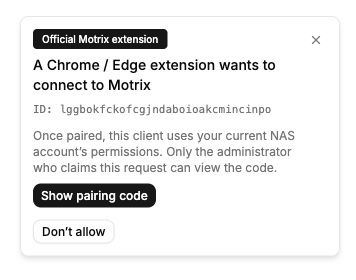
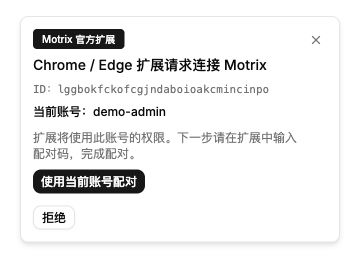
fix(fnos): clarify account-bound extension pairing

Changed region(s): [[0.0927, 0.0906, 0.8343, 0.7547], [0.1236, 0.7849, 0.309, 0.8453], [0.8652, 0.1208, 0.8961, 0.1811]]

diff --git a/src/renderer/routes/settings/cards/integration/use-pair-request-prompts.tsx b/src/renderer/routes/settings/cards/integration/use-pair-request-prompts.tsx
@@ -3,7 +3,10 @@ import {
   pairRequestCopy,
   toast,
 } from '@renderer/components/ui/toast'
-import { useOperatorSession } from '@renderer/lib/operator-auth'
+import {
+  refreshOperatorSession,
+  useOperatorSession,
+} from '@renderer/lib/operator-auth'
 import { transport } from '@renderer/lib/transport'
 import {
   BridgeCommands,
@@ -104,6 +107,7 @@ export function usePairRequestPrompts(): void {
 
   useEffect(() => {
     if (!supported) return
+    const accountName = useOperatorSession.getState().status?.username
     const sameOperator = () =>
       operatorKey(useOperatorSession.getState()) === operatorIdentity
     // key -> lifecycle state for a prompt currently owned by this hook
@@ -192,6 +196,9 @@ export function usePairRequestPrompts(): void {
       const claim = async () => {
         if (
           payload.kind !== 'extension-claim' ||
+          cancelled ||
+          !sameOperator() ||
+          !accountName ||
           state.settled ||
           state.claiming
         )
@@ -207,6 +214,7 @@ export function usePairRequestPrompts(): void {
                 browser: payload.browser,
                 extensionId: payload.extensionId,
                 pairingNonce: payload.pairingNonce,
+                expectedUsername: accountName,
               }
             )
           )
@@ -218,6 +226,7 @@ export function usePairRequestPrompts(): void {
           )
             return
           if (!result.ok) {
+            void refreshOperatorSession()
             toast.add({
               title: tRef.current(
                 'settings.integration.browser.pairUnavailable'
@@ -228,6 +237,7 @@ export function usePairRequestPrompts(): void {
           const request: PairRequestToastData['pairRequest'] = {
             ...payload,
             kind: 'extension',
+            accountName,
             code: result.code,
             onDeny: () => void settle('deny'),
           }
@@ -260,6 +270,7 @@ export function usePairRequestPrompts(): void {
           data: {
             pairRequest: {
               ...payload,
+              accountName,
               claiming: state.claiming,
               onClaim: () => void claim(),
               onDeny: () => void settle('deny'),
@@ -277,6 +288,7 @@ export function usePairRequestPrompts(): void {
           : payload.kind === 'extension-claim'
             ? {
                 ...payload,
+                accountName,
                 claiming: false,
                 onClaim: () => void claim(),
                 onDeny: () => void settle('deny'),

diff --git a/src/renderer/components/ui/toast.test.tsx b/src/renderer/components/ui/toast.test.tsx
@@ -197,6 +197,56 @@ describe('toast', () => {
     })
 
     describe('extension pairing branch (§5 identity tri-state)', () => {
+      it('shows the NAS account before claiming and keeps it beside the resulting code', async () => {
+        render(<Toaster />)
+        const onClaim = vi.fn()
+        const request = {
+          kind: 'extension-claim' as const,
+          pairingNonce: 'nas-request',
+          extensionId: 'ext-1',
+          browser: 'chromium' as const,
+          identity: 'official' as const,
+          accountName: 'alice',
+          claiming: false,
+          onClaim,
+          onDeny: vi.fn(),
+        }
+        const id = add({
+          timeout: 0,
+          priority: 'high',
+          data: { pairRequest: request },
+        })
+        expect(
+          await screen.findByText('Current account: alice')
+        ).toBeInTheDocument()
+        await userEvent.click(
+          screen.getByRole('button', {
+            name: 'Pair with current account',
+            hidden: true,
+          })
+        )
+        expect(onClaim).toHaveBeenCalledOnce()
+        act(() =>
+          toast.update(id, {
+            data: {
+              pairRequest: {
+                ...request,
+                kind: 'extension',
+                code: '1234-5678',
+              },
+            },
+          })
+        )
+        expect(screen.getByText('Current account: alice')).toBeInTheDocument()
+        expect(screen.getByText('1234-5678')).toBeInTheDocument()
+        expect(
+          screen.queryByRole('button', {
+            name: 'Pair with current account',
+            hidden: true,
+          })
+        ).toBeNull()
+      })
+
       function extensionPairRequest(
         overrides: Partial<{
           identity: 'official' | 'attested-non-official' | 'unverified'

diff --git a/src/renderer/routes/settings/cards/integration/use-pair-request-prompts.test.tsx b/src/renderer/routes/settings/cards/integration/use-pair-request-prompts.test.tsx
@@ -166,6 +166,7 @@ describe('usePairRequestPrompts', () => {
     expect(invokeMock).toHaveBeenCalledTimes(1)
     expect(findAddCall(claimKey).data.pairRequest).not.toHaveProperty('code')
     expect(findAddCall(claimKey).data.pairRequest).not.toHaveProperty('onAllow')
+    expect(findAddCall(claimKey).data.pairRequest.accountName).toBe('alice')
     invokeMock.mockResolvedValueOnce({
       ok: true,
       code: 'ABCD-EFGH',
@@ -178,12 +179,14 @@ describe('usePairRequestPrompts', () => {
         browser: claimRequest.browser,
         extensionId: claimRequest.extensionId,
         pairingNonce: claimRequest.pairingNonce,
+        expectedUsername: 'alice',
       }
     )
     expect(toastUpdateMock).toHaveBeenLastCalledWith(claimKey, {
       data: {
         pairRequest: expect.objectContaining({
           kind: 'extension',
+          accountName: 'alice',
           code: 'ABCD-EFGH',
         }),
       },
@@ -227,6 +230,22 @@ describe('usePairRequestPrompts', () => {
       expect(toastCloseMock).toHaveBeenCalledWith(claimKey)
     }
   )
+
+  it('does not claim under another account before the old prompt is removed', async () => {
+    const claim = await showClaim()
+    invokeMock.mockResolvedValue([])
+    await act(async () => {
+      useOperatorSession.setState((state) => ({
+        status: { ...state.status!, username: 'bob' },
+      }))
+      claim()
+    })
+    expect(
+      invokeMock.mock.calls.some(
+        ([command]) => command === BridgeCommands.ClaimExtensionPair
+      )
+    ).toBe(false)
+  })
 
   it('coalesces a double claim click and restores the button when another administrator owns it', async () => {
     const claim = await showClaim()

diff --git a/src/server/bridge/extension-pairing-prompt-adapter.test.ts b/src/server/bridge/extension-pairing-prompt-adapter.test.ts
@@ -181,6 +181,7 @@ describe('NAS Extension code claims', () => {
     browser: REQUEST.browser,
     pairingNonce: REQUEST.pairingNonce,
     extensionId: REQUEST.claimedExtensionId,
+    expectedUsername: 'alice',
   }
   async function fixture() {
     const root = await mkdtemp('/tmp/motrix-nas-claim-')
@@ -213,7 +214,9 @@ describe('NAS Extension code claims', () => {
     const queued = adapter.queueMbp1Prompt(REQUEST)
     if (!queued.ok) throw new Error('Prompt not queued')
     const claim = (owner = alice) =>
-      runAsNasGatewayUser(owner, () => adapter.claim(params))
+      runAsNasGatewayUser(owner, () =>
+        adapter.claim({ ...params, expectedUsername: owner.username! })
+      )
     return {
       adapter,
       bindings,
@@ -255,6 +258,14 @@ describe('NAS Extension code claims', () => {
     f.accounts.resolve.mockResolvedValue(null)
     await expect(f.claim()).resolves.toMatchObject({ ok: false })
     expect(JSON.stringify(f.adapter.listPending())).not.toContain(REQUEST.code)
+  })
+
+  it('rejects a cached displayed account that differs from the gateway account', async () => {
+    const f = await fixture()
+    await expect(
+      runAsNasGatewayUser(bob, () => f.adapter.claim(params))
+    ).resolves.toMatchObject({ ok: false })
+    await expect(f.claim()).resolves.toMatchObject({ ok: true })
   })
 
   it('admits one concurrent claimant and releases an approval that completes after expiry', async () => {

diff --git a/src/renderer/components/ui/toast.tsx b/src/renderer/components/ui/toast.tsx
@@ -46,11 +46,13 @@ export type PairRequestToastData = {
       })
     | (Extract<PairRequestPayload, { kind: 'extension' }> & {
         onDeny: () => void
+        accountName?: string
       })
     | (Extract<PairRequestPayload, { kind: 'extension-claim' }> & {
         onClaim: () => void
         claiming: boolean
         onDeny: () => void
+        accountName?: string
       })
 }
 
@@ -216,6 +218,13 @@ function ToastList() {
             <Toast.Description className="truncate font-mono text-[11px] text-muted-foreground">
               {copy.description}
             </Toast.Description>
+            {pairRequest.accountName && (
+              <p className="text-xs font-medium wrap-anywhere">
+                {t('settings.integration.browser.pairToast.account', {
+                  name: pairRequest.accountName,
+                })}
+              </p>
+            )}
             {isUnverified && (
               <p className="text-xs text-amber-700 dark:text-amber-400">
                 {t(
@@ -232,7 +241,7 @@ function ToastList() {
                   type="button"
                   size="xs"
                   onClick={pairRequest.onClaim}
-                  disabled={pairRequest.claiming}
+                  disabled={pairRequest.claiming || !pairRequest.accountName}
                   aria-busy={pairRequest.claiming}
                 >
                   {t('settings.integration.browser.pairToast.claim')}

diff --git a/src/server/bridge/extension-pairing-prompt-adapter.ts b/src/server/bridge/extension-pairing-prompt-adapter.ts
@@ -27,6 +27,7 @@ import type {
   NasExtensionAudience,
   NasExtensionBindings,
 } from '../platform/nas/extension-bindings'
+import { currentNasApprover } from '../platform/nas/identity'
 
 type ExtensionPairRequestPayload = Omit<
   Extract<PendingPairRequestInfo, { kind: 'extension' }>,
@@ -110,7 +111,8 @@ export class ServerExtensionPairingPromptAdapter {
   ): Promise<ClaimExtensionPairResult> {
     const bindings = this.options.nasBindings
     const unavailable = { ok: false, reason: 'unavailable' } as const
-    if (!bindings) return unavailable
+    if (!bindings || currentNasApprover()?.username !== params.expectedUsername)
+      return unavailable
     const promptId = this.promptIdsByKey.get(
       pairRequestKey({ ...params, kind: 'extension' })
     )

diff --git a/src/server/bridge/bootstrap.test.ts b/src/server/bridge/bootstrap.test.ts
@@ -874,6 +874,7 @@ describe('bootstrapBridgeForServer', () => {
       browser: pending[0].browser,
       extensionId,
       pairingNonce: pending[0].pairingNonce,
+      expectedUsername: alice.username,
     }
     const claim = () =>
       runtime!.bridgeCommandHandlers[BridgeCommands.ClaimExtensionPair](params)

diff --git a/src/shared/schemas/extension-pairing.ts b/src/shared/schemas/extension-pairing.ts
@@ -6,6 +6,7 @@ export const claimExtensionPairParamsSchema = z
     browser: BrowserSchema,
     pairingNonce: z.string().min(1).max(256),
     extensionId: z.string().min(1).max(256),
+    expectedUsername: z.string().min(1).max(256),
   })
   .strict()
 export type ClaimExtensionPairParams = z.infer<
